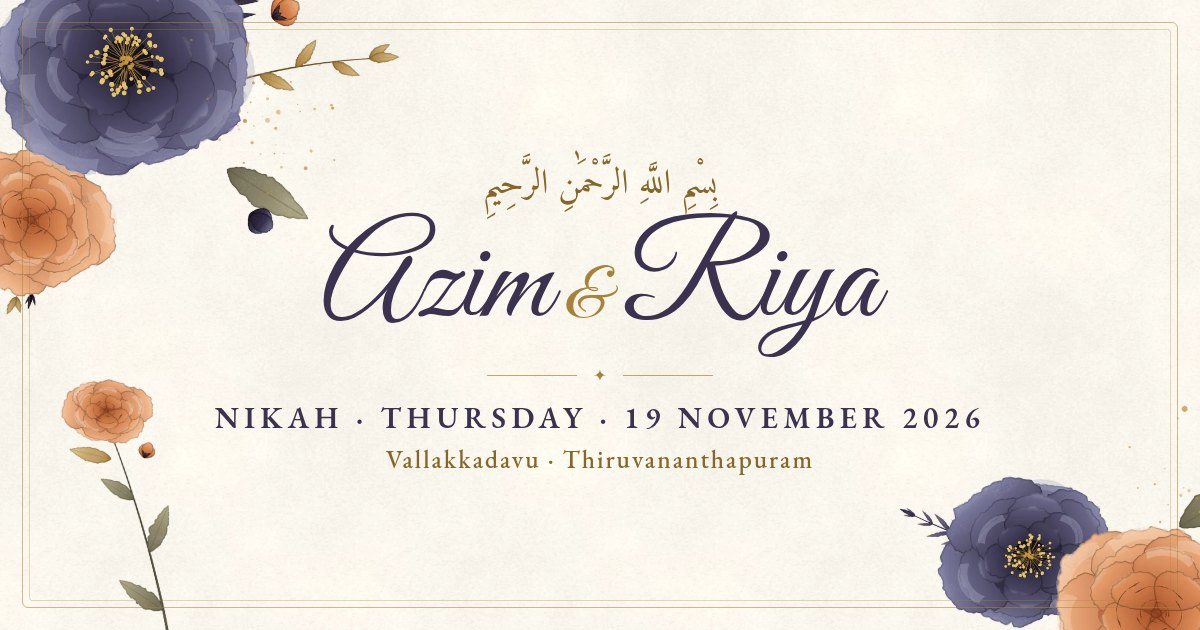
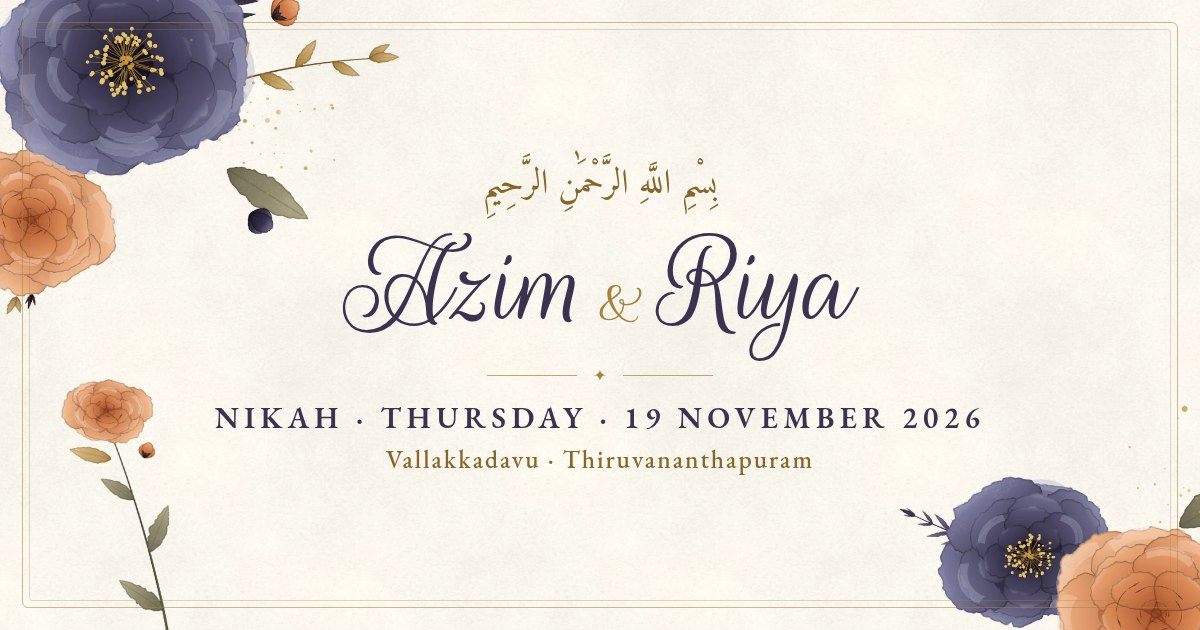
Add wedding reception, switch to Rouge Script, drop best wishes
- Script font: Rouge Script replaces Great Vibes, whose capital A read
  like a lowercase "a" in "Azim"; script sizes scaled up ~12% to match
- Wedding reception at Sim Auditorium, Vizhinjam Harbour Road, Kovalam:
  a line in the Nikah details, a third map tab (pinned by coordinates)
  and in the calendar event description
- Remove the Best Wishes section and its styles
- Re-render the link-preview image in the new font

Changed region(s): [[0.2467, 0.3317, 0.74, 0.573]]

diff --git a/website/css/style.css b/website/css/style.css
@@ -15,7 +15,7 @@
   --gold-line: rgba(168, 130, 60, .45);
   --peach: #d68a59;
 
-  --f-script: 'Great Vibes', 'Brush Script MT', cursive;
+  --f-script: 'Rouge Script', 'Brush Script MT', cursive;
   --f-display: 'Viaoda Libre', 'Cormorant Garamond', Georgia, serif;
   --f-serif: 'EB Garamond', Garamond, Georgia, 'Times New Roman', serif;
   --f-arabic: 'Amiri', 'Noto Naskh Arabic', 'Traditional Arabic', serif;
@@ -205,12 +205,12 @@ svg { display: inline-block; }
   align-items: center;
   font-family: var(--f-script);
   font-weight: 400;
-  font-size: 50px;
+  font-size: 56px;
   line-height: 1.05;
   color: var(--plum);
 }
-.intro__amp { font-size: 30px; line-height: 1; color: var(--gold); margin: 2px 0; }
-@media (min-width: 768px) { .intro__names { font-size: 58px; } }
+.intro__amp { font-size: 34px; line-height: 1; color: var(--gold); margin: 2px 0; }
+@media (min-width: 768px) { .intro__names { font-size: 66px; } }
 
 .flourish {
   display: flex;
@@ -232,7 +232,7 @@ svg { display: inline-block; }
 .intro__guest {
   margin-top: 14px;
   font-family: var(--f-script);
-  font-size: 30px;
+  font-size: 32px;
   line-height: 1.2;
   color: var(--gold-deep);
   overflow-wrap: anywhere;
@@ -510,7 +510,7 @@ svg { display: inline-block; }
   text-transform: uppercase;
   color: var(--plum);
 }
-.wreath__amp { font-family: var(--f-script); font-size: 42px; line-height: 1; color: var(--gold); }
+.wreath__amp { font-family: var(--f-script); font-size: 48px; line-height: 1; color: var(--gold); }
 .wreath__date {
   margin-top: 14px;
   font-size: 13px;
@@ -519,7 +519,7 @@ svg { display: inline-block; }
 }
 @media (min-width: 768px) {
   .wreath__name { font-size: 40px; }
-  .wreath__amp { font-size: 52px; }
+  .wreath__amp { font-size: 58px; }
   .wreath__date { font-size: 15px; }
 }
 .scroll-cue {
@@ -563,13 +563,13 @@ svg { display: inline-block; }
 }
 .couple__name {
   font-family: var(--f-script);
-  font-size: 70px;
+  font-size: 80px;
   line-height: 1.1;
   color: var(--plum);
   padding: 0 .2em;
 }
-.couple__with { font-family: var(--f-script); font-size: 32px; line-height: 1; color: var(--gold); }
-@media (min-width: 768px) { .couple__name { font-size: 86px; } }
+.couple__with { font-family: var(--f-script); font-size: 36px; line-height: 1; color: var(--gold); }
+@media (min-width: 768px) { .couple__name { font-size: 98px; } }
 .host--bride { margin-top: 4px; }
 
 /* ==========================================================================
@@ -702,6 +702,16 @@ svg { display: inline-block; }
   color: var(--plum);
 }
 .fact__small { margin-top: 3px; font-size: 12px; letter-spacing: .04em; color: var(--plum-soft); }
+.reception {
+  display: flex;
+  flex-direction: column;
+  align-items: center;
+  width: 70%;
+  margin: 26px auto 0;
+  padding-top: 22px;
+  border-top: 1px solid var(--gold-line);
+}
+.reception__icon { width: 38px; height: 38px; margin-bottom: 8px; color: var(--gold); }
 @media (min-width: 768px) {
   .fact__text { font-size: 15px; }
   .fact__big { font-size: 22px; }
@@ -740,7 +750,7 @@ svg { display: inline-block; }
 .countdown__done {
   margin-top: 10px;
   font-family: var(--f-script);
-  font-size: 30px;
+  font-size: 34px;
   line-height: 1.3;
   color: var(--plum);
 }
@@ -756,7 +766,7 @@ svg { display: inline-block; }
 .calendar__month {
   padding: 10px 0 8px;
   font-family: var(--f-script);
-  font-size: 30px;
+  font-size: 34px;
   line-height: 1.2;
   color: var(--plum);
   border-bottom: 1px solid rgba(59, 50, 80, .12);
@@ -913,6 +923,10 @@ svg { display: inline-block; }
   transition: background .3s, color .3s;
 }
 .tab svg { width: 18px; height: 18px; }
+@media (max-width: 420px) {           /* three tabs on a phone */
+  .tab { gap: 5px; padding: 7px 11px; font-size: 13px; letter-spacing: .06em; }
+  .tab svg { width: 16px; height: 16px; }
+}
 .tab.is-active { background: var(--plum); color: #fbf3e2; box-shadow: 0 4px 12px rgba(42, 35, 56, .2); }
 .tab.is-active svg { color: var(--gold-soft); }
 .place { margin-top: 16px; }
@@ -945,32 +959,6 @@ svg { display: inline-block; }
 }
 .link-gold:hover { transform: scale(1.04); }
 .link-gold svg { width: 17px; height: 17px; }
-
-/* ==========================================================================
-   Best wishes
-   ========================================================================== */
-
-.wishes .inner { text-align: center; }
-.wishes__head { display: flex; align-items: center; justify-content: center; gap: 8px; color: var(--gold); }
-.wishes__orn { width: 42px; height: 24px; }
-.wishes__orn--r { scale: -1 1; }
-.title--inline { display: inline-block; }
-.wishes__list {
-  display: grid;
-  grid-template-columns: repeat(2, auto);
-  justify-content: center;
-  gap: 0 18px;
-  margin-top: 16px;
-  padding: 0;
-  list-style: none;
-}
-@media (min-width: 768px) { .wishes__list { grid-template-columns: repeat(3, auto); gap: 4px 34px; } .wishes__list li { font-size: 30px; } }
-.wishes__list li {
-  font-family: var(--f-script);
-  font-size: 25px;
-  line-height: 1.45;
-  color: var(--plum);
-}
 
 /* ==========================================================================
    Du'a — framed in a mihrab arch
@@ -1027,7 +1015,7 @@ svg { display: inline-block; }
   gap: 10px;
   margin: 20px 0 36px;
   font-family: var(--f-script);
-  font-size: 40px;
+  font-size: 46px;
   color: var(--plum);
 }
 .footer__sign svg { width: 18px; height: 18px; color: var(--peach); animation: heartbeat 1.6s ease-in-out infinite; }

diff --git a/website/index.html b/website/index.html
@@ -20,7 +20,7 @@
   <link rel="icon" href="assets/favicon.svg" type="image/svg+xml">
   <link rel="preconnect" href="https://fonts.googleapis.com">
   <link rel="preconnect" href="https://fonts.gstatic.com" crossorigin>
-  <link rel="stylesheet" href="https://fonts.googleapis.com/css2?family=Amiri:wght@400;700&family=EB+Garamond:ital,wght@0,400;0,500;0,600;1,400&family=Great+Vibes&family=Viaoda+Libre&display=swap">
+  <link rel="stylesheet" href="https://fonts.googleapis.com/css2?family=Amiri:wght@400;700&family=EB+Garamond:ital,wght@0,400;0,500;0,600;1,400&family=Rouge+Script&family=Viaoda+Libre&display=swap">
   <link rel="preload" as="image" href="assets/flowers/cluster-a.webp">
   <link rel="preload" as="image" href="assets/flowers/bed-intro.webp">
   <link rel="stylesheet" href="css/style.css">
@@ -98,6 +98,13 @@
     <path fill="currentColor" fill-rule="evenodd" d="M5 44V19l2.5-5 2.5 5v25Zm33 0V19l2.5-5 2.5 5v25ZM12 44V27h24v17Zm1-17c0-7 5-10.5 11-14 6 3.5 11 7 11 14Zm10.4-14V9.6h1.2V13ZM20.5 44v-6.5a3.5 3.5 0 0 1 7 0V44Zm-6-7v-3.2a1.5 1.5 0 0 1 3 0V37Zm16 0v-3.2a1.5 1.5 0 0 1 3 0V37Z"/>
     <path fill="currentColor" d="M24.6 3.8a2.9 2.9 0 1 0 2.3 4.6 2.3 2.3 0 1 1-2.3-4.6Z"/>
     <path fill="currentColor" d="M7 12.6h1v-2.2H7Zm33 0h1v-2.2h-1Z"/>
+  </symbol>
+  <symbol id="i-rings" viewBox="0 0 24 24">
+    <g fill="none" stroke="currentColor" stroke-width="1.7">
+      <circle cx="8.8" cy="14.6" r="5.6"/>
+      <circle cx="15.2" cy="14.6" r="5.6"/>
+    </g>
+    <path fill="currentColor" d="M8.8 3.2 11 5.9 8.8 8.4 6.6 5.9Z"/>
   </symbol>
   <symbol id="i-pin" viewBox="0 0 48 48">
     <path fill="currentColor" fill-rule="evenodd" d="M24 4C16.3 4 10 10.1 10 17.7 10 28 24 41 24 41s14-13 14-23.3C38 10.1 31.7 4 24 4Zm0 19.2a5.6 5.6 0 1 1 0-11.2 5.6 5.6 0 0 1 0 11.2Z"/>
@@ -274,6 +281,13 @@
           </div>
         </div>
 
+        <div class="reception" data-reveal>
+          <svg class="reception__icon" aria-hidden="true"><use href="#i-rings"/></svg>
+          <p class="fact__label">Wedding Reception</p>
+          <p class="fact__text">Sim Auditorium</p>
+          <p class="fact__small">Vizhinjam Harbour Road, Kovalam</p>
+        </div>
+
         <div class="countdown" data-reveal>
           <p class="countdown__title">Counting the days</p>
           <div class="countdown__grid" id="countdown">
@@ -333,6 +347,9 @@
           <button class="tab" role="tab" aria-selected="false" data-place="venue" type="button">
             <svg aria-hidden="true"><use href="#i-pin"/></svg> Venue
           </button>
+          <button class="tab" role="tab" aria-selected="false" data-place="reception" type="button">
+            <svg aria-hidden="true"><use href="#i-rings"/></svg> Reception
+          </button>
         </div>
         <div class="place" data-reveal>
           <p class="place__name" id="place-name">Vallakkadavu Juma Masjid</p>
@@ -344,30 +361,6 @@
             <svg aria-hidden="true"><use href="#i-nav"/></svg> Get directions
           </a>
         </div>
-      </div>
-    </section>
-
-    <!-- Best wishes ---------------------------------------------------->
-    <section class="block wishes" aria-label="Best wishes">
-      <div class="inner">
-        <div class="decor" aria-hidden="true">
-          <span class="deco deco--ghost" style="--x:50%; --y:50%; --w:74%; --r:8deg" data-speed=".09"><img decoding="async" src="assets/flowers/cluster-c.webp" alt=""></span>
-          <span class="deco" style="--x:-7%; --xm:-14%; --y:70%; --w:24%; --r:14deg" data-speed="-.06"><img decoding="async" class="sway" data-amp="2.6" data-dur="5.8" src="assets/flowers/frond-soft.webp" alt=""></span>
-          <span class="deco" style="--x:106%; --xm:113%; --y:30%; --w:22%; --r:-12deg" data-speed=".05"><img decoding="async" class="sway" data-amp="2.4" data-dur="5.2" data-delay="-1.6" src="assets/flowers/sprig-gold.webp" alt=""></span>
-        </div>
-        <div class="wishes__head" data-reveal>
-          <svg class="wishes__orn" aria-hidden="true"><use href="#i-laurel"/></svg>
-          <h2 class="title title--inline">Best Wishes</h2>
-          <svg class="wishes__orn wishes__orn--r" aria-hidden="true"><use href="#i-laurel"/></svg>
-        </div>
-        <ul class="wishes__list">
-          <li data-reveal>Nasar Saqafi</li>
-          <li data-reveal style="--d:.08s">Abid Muhsina</li>
-          <li data-reveal style="--d:.16s">Sajeer Aadila</li>
-          <li data-reveal style="--d:.24s">Hiba Fathima</li>
-          <li data-reveal style="--d:.32s">Ayra Maryam</li>
-          <li data-reveal style="--d:.4s">Hadi Muhammed</li>
-        </ul>
       </div>
     </section>
 

diff --git a/tools/og.html b/tools/og.html
@@ -4,7 +4,7 @@
 <html>
 <head>
 <meta charset="utf-8">
-<link rel="stylesheet" href="https://fonts.googleapis.com/css2?family=Amiri&family=EB+Garamond:wght@500;600&family=Great+Vibes&display=swap">
+<link rel="stylesheet" href="https://fonts.googleapis.com/css2?family=Amiri&family=EB+Garamond:wght@500;600&family=Rouge+Script&display=swap">
 <style>
   html, body { margin: 0; width: 1200px; height: 630px; overflow: hidden; }
   body {
@@ -22,7 +22,7 @@
   .fl { position: absolute; left: 60px; bottom: -40px; width: 150px; transform: rotate(-14deg); }
   .content { position: absolute; inset: 0; display: flex; flex-direction: column; align-items: center; justify-content: center; }
   .bis { font-family: 'Amiri', serif; font-size: 34px; color: #86662a; }
-  .names { font-family: 'Great Vibes', cursive; font-size: 132px; line-height: 1.05; margin: 2px 0 0; }
+  .names { font-family: 'Rouge Script', cursive; font-size: 132px; line-height: 1.05; margin: 2px 0 0; }
   .names span { font-size: 70px; color: #a8823c; margin: 0 14px; }
   .line { display: flex; align-items: center; gap: 16px; margin: 10px 0 12px; color: #a8823c; }
   .line i { width: 90px; height: 1px; background: currentColor; opacity: .7; }

diff --git a/website/js/main.js b/website/js/main.js
@@ -23,6 +23,11 @@
         addr: 'Valiyapally Juma Masjid Road, Vallakkadavu, Thiruvananthapuram',
         at: '8.4712179,76.9260925',
       },
+      reception: {
+        name: 'Sim Auditorium',
+        addr: 'Vizhinjam Harbour Road, Kovalam',
+        at: '8.3871837,76.985373',
+      },
     },
   };
 
@@ -443,7 +448,7 @@
     const title = 'Nikah of Azim & Riya';
     const where = 'Vallakkadavu Juma Masjid, Vallakkadavu Road, Thiruvananthapuram';
     const url = location.href.split(/[?#]/)[0];
-    const details = `Nikah at Vallakkadavu Juma Masjid (near Airport), 11:30 – 12:00.\nVenue: Vallakkadavu Convention Centre.\n${url}`;
+    const details = `Nikah at Vallakkadavu Juma Masjid (near Airport), 11:30 – 12:00.\nVenue: Vallakkadavu Convention Centre.\nWedding reception: Sim Auditorium, Vizhinjam Harbour Road, Kovalam.\n${url}`;
     $('#gcal-link').href = `https://calendar.google.com/calendar/render?${new URLSearchParams({
       action: 'TEMPLATE', text: title, dates: `${stamp(CONFIG.nikah)}/${stamp(CONFIG.nikahEnd)}`,
       details, location: where, ctz: 'Asia/Kolkata',

diff --git a/README.md b/README.md
@@ -18,10 +18,11 @@ not needed to host the site.
 5. **The Nikah:** date badge (like the printed card), Hijri date, time, masjid
    and venue, live countdown, calendar and *Add to Calendar*. A *Confirm
    Attendance* button (opens WhatsApp) appears once Azim's number is set.
-6. **Finding us:** Google Maps for the masjid and the convention centre, with
-   directions.
-7. **Best wishes** and a **du'a for the newlyweds** in a mihrab arch.
-8. **Footer** with the family's thanks and a flower bed.
+6. **Wedding reception** at Sim Auditorium, Vizhinjam Harbour Road, Kovalam.
+7. **Finding us:** Google Maps for the masjid, the convention centre and the
+   reception, with directions.
+8. A **du'a for the newlyweds** in a mihrab arch.
+9. **Footer** with the family's thanks and a flower bed.
 
 Motion: swaying branches, layered parallax (faint background branches drift
 slower than the page, edge branches faster), scroll reveals, and
@@ -107,5 +108,5 @@ google-chrome --headless=new --hide-scrollbars --allow-file-access-from-files \
   --screenshot=og.png "file://$PWD/tools/og.html"
 ```
 
-Fonts come from Google Fonts (Great Vibes, Viaoda Libre, EB Garamond, Amiri),
+Fonts come from Google Fonts (Rouge Script, Viaoda Libre, EB Garamond, Amiri),
 all under the SIL Open Font License.
